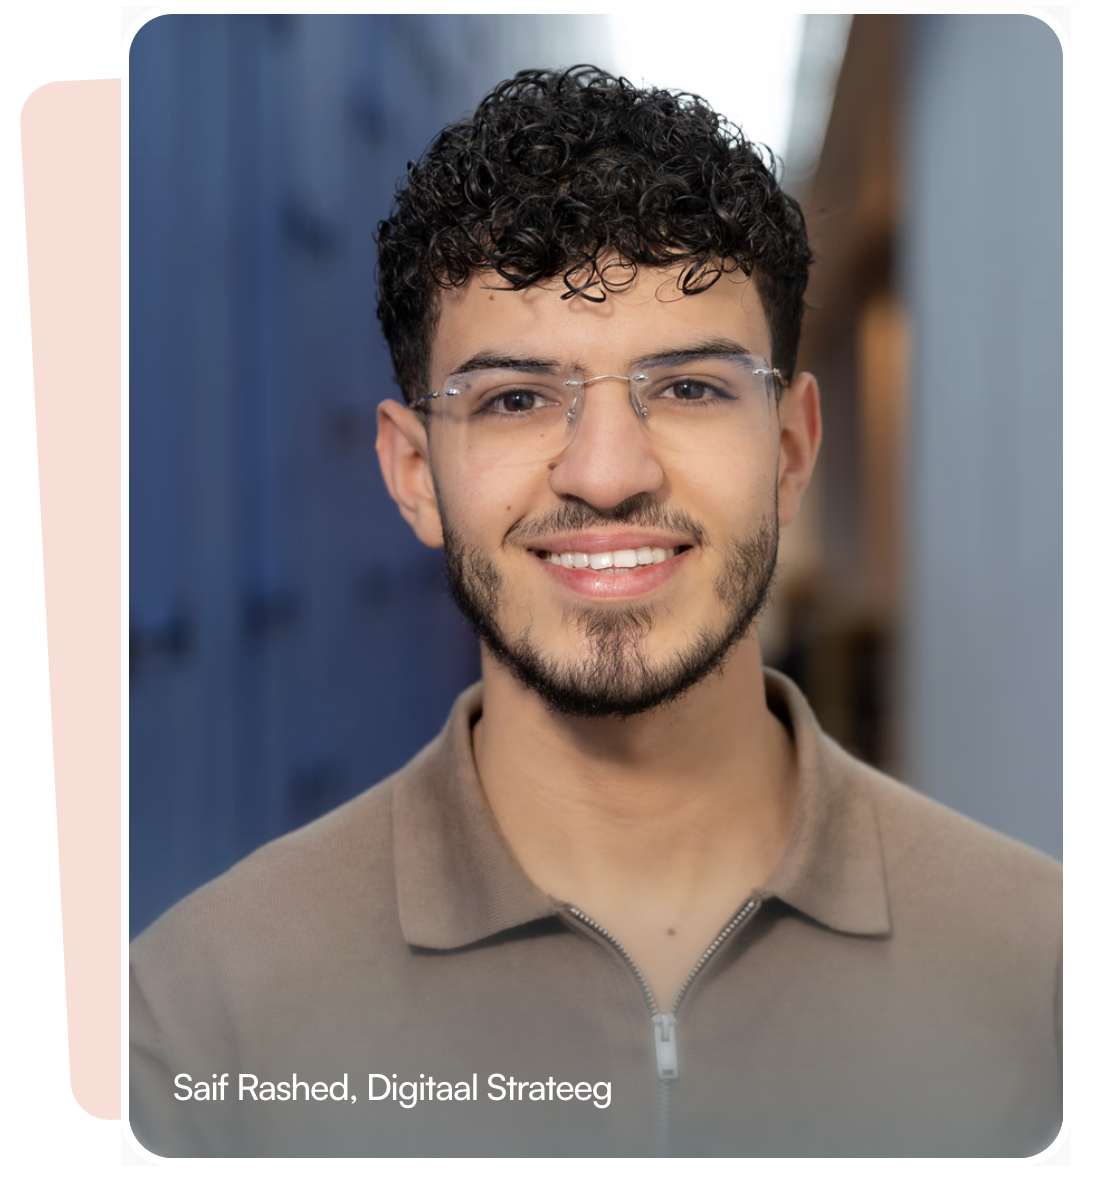
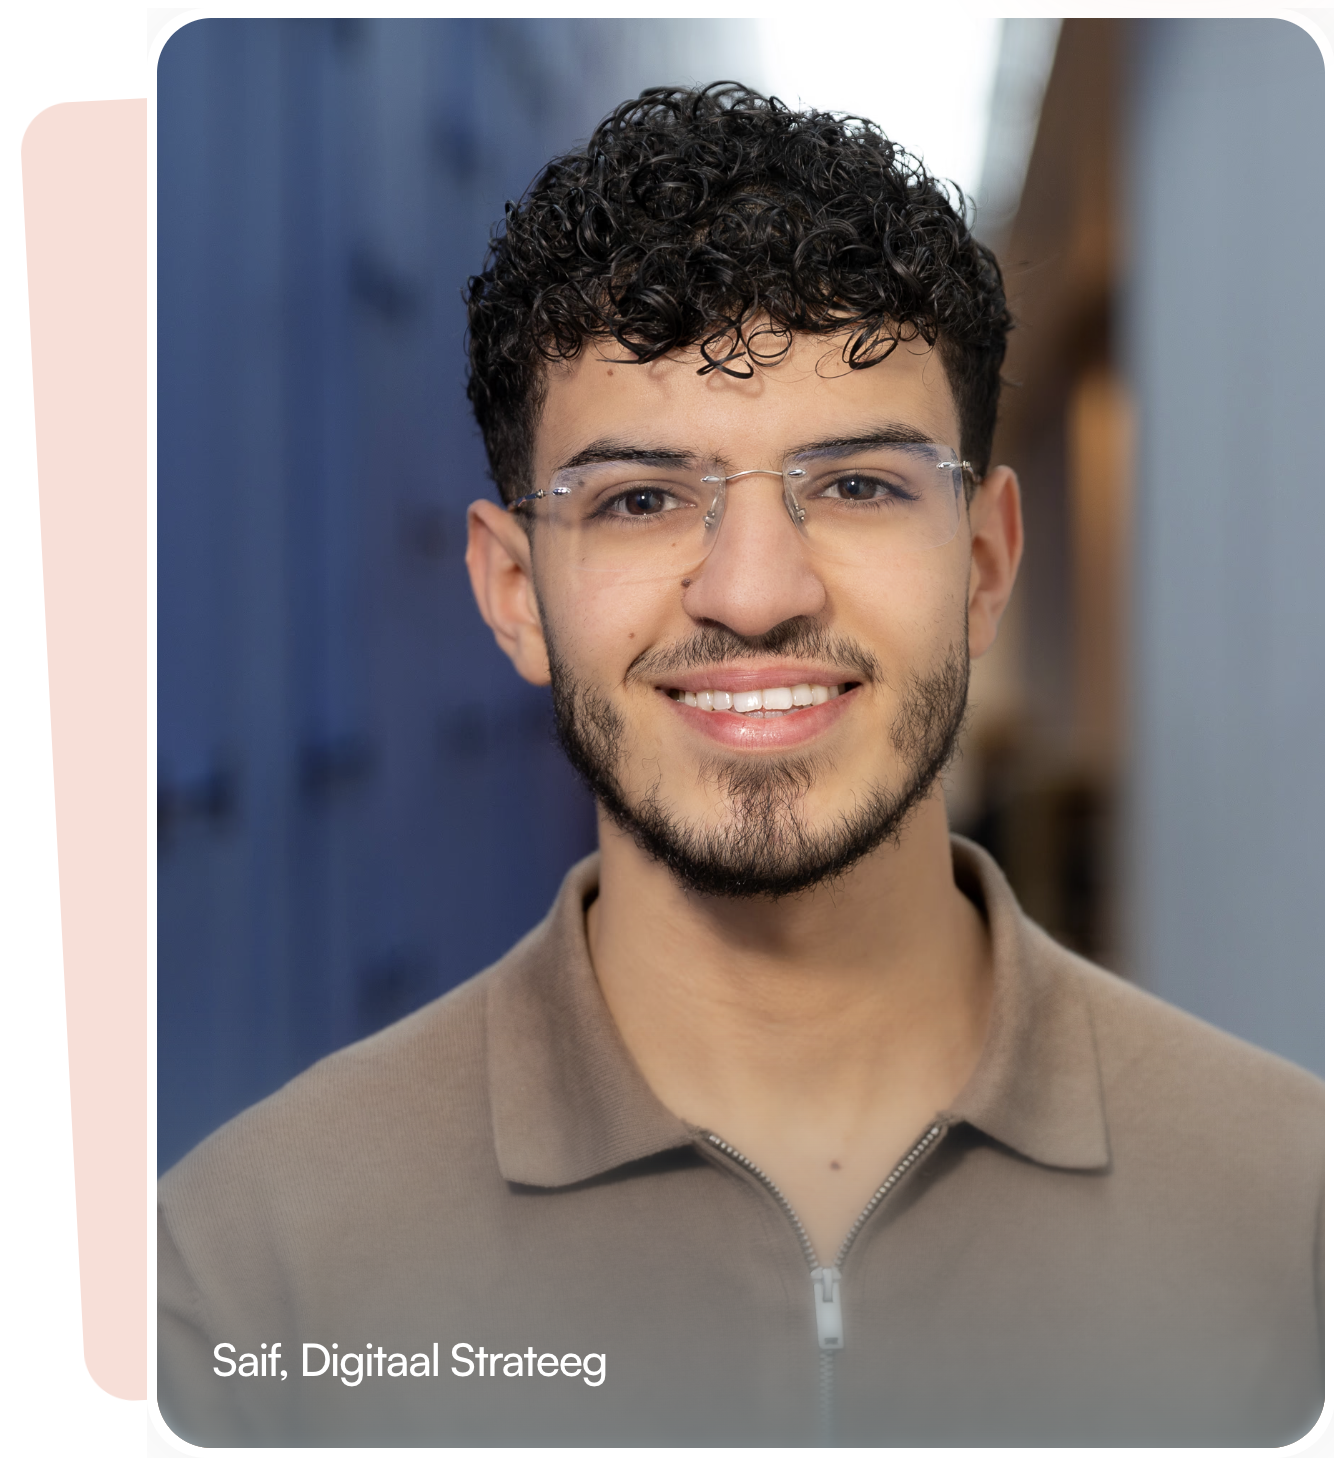
Enhance Google Tag Manager integration and update navigation links for improved user experience

diff --git a/index.html b/index.html
@@ -12,6 +12,17 @@
     <!-- FontAwesome for Icons -->
     <link rel="stylesheet" href="https://cdnjs.cloudflare.com/ajax/libs/font-awesome/6.4.0/css/all.min.css">
 
+    <!-- Google Tag Manager -->
+    <script>(function (w, d, s, l, i) {
+            w[l] = w[l] || []; w[l].push({
+                'gtm.start':
+                    new Date().getTime(), event: 'gtm.js'
+            }); var f = d.getElementsByTagName(s)[0],
+                j = d.createElement(s), dl = l != 'dataLayer' ? '&l=' + l : ''; j.async = true; j.src =
+                    'https://www.googletagmanager.com/gtm.js?id=' + i + dl; f.parentNode.insertBefore(j, f);
+        })(window, document, 'script', 'dataLayer', 'GTM-MC82HVPJ');</script>
+    <!-- End Google Tag Manager -->
+
     <script>
         tailwind.config = {
             theme: {
@@ -97,17 +108,21 @@
 </head>
 
 <body class="text-gray-800 antialiased bg-white">
+    <!-- Google Tag Manager (noscript) -->
+    <noscript><iframe src="https://www.googletagmanager.com/ns.html?id=GTM-MC82HVPJ" height="0" width="0"
+            style="display:none;visibility:hidden"></iframe></noscript>
+    <!-- End Google Tag Manager (noscript) -->
 
     <!-- Navigation -->
     <nav class="container mx-auto px-6 py-6 flex justify-between items-center">
         <!-- Logo Image -->
-        <a href="#">
+        <a href="#home">
             <img src="./logo.png" alt="Nul Gezeik Praktijk Logo" class="h-24">
         </a>
         <div class="hidden md:flex items-center space-x-8">
-            <a href="#" class="text-gray-600 hover:text-black font-medium">Partners</a>
-            <a href="#" class="text-gray-600 hover:text-black font-medium">Ook maker van</a>
-            <a href="#"
+            <a href="#partners" class="text-gray-600 hover:text-black font-medium">Partners</a>
+            <a href="#ook-maker-van" class="text-gray-600 hover:text-black font-medium">Ook maker van</a>
+            <a href="https://wa.link/g28jnd"
                 class="bg-brand hover:bg-brand-hover text-white px-6 py-2.5 rounded-full font-medium transition flex items-center">
                 Contact <i class="fa-solid fa-arrow-right ml-2 text-sm"></i>
             </a>
@@ -115,7 +130,7 @@
     </nav>
 
     <!-- Hero Section -->
-    <section class="container mx-auto px-6 py-12 md:py-4 grid grid-cols-1 md:grid-cols-2 gap-12 items-center">
+    <section id="home" class="container mx-auto px-6 py-12 md:py-4 grid grid-cols-1 md:grid-cols-2 gap-12 items-center">
         <div>
             <div class="flex items-center mb-6">
                 <div class="flex -space-x-2 mr-4">
@@ -146,17 +161,17 @@
                 Besteed uw aandacht aan de taken die ertoe doen.
             </p>
 
-            <a href="#"
+            <a href="https://wa.link/g28jnd"
                 class="inline-block bg-brand hover:bg-brand-hover text-white px-8 py-3 rounded-full font-medium transition mb-8">
                 Vrijblijvende kennismaking <i class="fa-solid fa-arrow-right ml-2"></i>
             </a>
 
             <div class="flex flex-wrap gap-4 text-sm font-medium text-gray-600 mb-10">
-                <a href="#" class="hover:text-black">Diensten <i
+                <a href="#services" class="hover:text-black">Diensten <i
                         class="fa-solid fa-arrow-up-right-from-square text-xs ml-1"></i></a>
-                <a href="#" class="hover:text-black">Partners <i
+                <a href="#partners" class="hover:text-black">Partners <i
                         class="fa-solid fa-arrow-up-right-from-square text-xs ml-1"></i></a>
-                <a href="#" class="hover:text-black">Ook maker van <i
+                <a href="#ook-maker-van" class="hover:text-black">Ook maker van <i
                         class="fa-solid fa-arrow-up-right-from-square text-xs ml-1"></i></a>
             </div>
 
@@ -178,7 +193,7 @@
             </div>
         </div>
 
-        <img src="./hero.png" alt="Saif Rashed" class="w-full h-full object-contain">
+        <img src="./hero.png" alt="Saif" class="w-full h-full object-contain">
 
     </section>
 
@@ -237,7 +252,7 @@
     </section>
 
     <!-- Services Section -->
-    <section class="container mx-auto px-6 py-20 text-center">
+    <section id="services" class="container mx-auto px-6 py-20 text-center">
         <span class="inline-block bg-gray-100 text-gray-600 text-xs px-3 py-1 rounded-full mb-4">Diensten</span>
         <h2 class="text-3xl md:text-4xl font-bold mb-10">Alles onder één dak</h2>
 
@@ -257,7 +272,7 @@
         </div>
 
         <div class="mt-10">
-            <a href="#"
+            <a href="#services"
                 class="inline-block bg-brand hover:bg-brand-hover text-white px-8 py-3 rounded-full font-medium transition">
                 Diensten <i class="fa-solid fa-arrow-right ml-2"></i>
             </a>
@@ -275,7 +290,7 @@
                     <span
                         class="inline-block bg-gray-100 text-gray-600 text-xs px-3 py-1 rounded-full mb-4">Werkwijze</span>
                     <h3 class="text-2xl font-bold mb-6">Drie-stappenplan</h3>
-                    <a href="#"
+                    <a href="https://wa.link/g28jnd"
                         class="inline-block bg-brand hover:bg-brand-hover text-white px-6 py-2 rounded-full font-medium text-sm transition">
                         Contact <i class="fa-solid fa-arrow-right ml-1"></i>
                     </a>
@@ -312,44 +327,47 @@
     </section>
 
     <!-- Dental Portfolio Section -->
-    <section class="container mx-auto px-6 py-20 text-center">
+    <section id="partners" class="container mx-auto px-6 py-20 text-center">
         <span class="inline-block bg-gray-100 text-gray-600 text-xs px-3 py-1 rounded-full mb-4">Partners</span>
         <h2 class="text-3xl md:text-4xl font-bold mb-12 max-w-xl mx-auto">Andere praktijken hebben deze stap al gezet
         </h2>
 
         <div class="grid grid-cols-1 md:grid-cols-2 gap-6 text-left">
-            <div class="portfolio-card">
+            <a href="https://breedveldtandartsen.nl" target="_blank" class="portfolio-card">
                 <img src="./praktijken/1.png" alt="Breedveld tandartsen">
                 <div class="portfolio-overlay">
                     <span class="text-xs font-semibold mb-1">Website</span>
                     <h3 class="text-2xl font-bold">Breedveld tandartsen</h3>
                 </div>
-            </div>
-            <div class="portfolio-card">
+            </a>
+
+            <a href="https://dentalfit.nl" target="_blank" class="portfolio-card">
                 <img src="./praktijken/2.png" alt="Dentalfit">
                 <div class="portfolio-overlay">
                     <span class="text-xs font-semibold mb-1">Website</span>
                     <h3 class="text-2xl font-bold">Dentalfit</h3>
                 </div>
-            </div>
-            <div class="portfolio-card">
+            </a>
+
+            <a href="https://kiesmetverstand.nl" target="_blank" class="portfolio-card">
                 <img src="./praktijken/3.png" alt="KiesMetVerstand">
                 <div class="portfolio-overlay">
                     <span class="text-xs font-semibold mb-1">Website</span>
                     <h3 class="text-2xl font-bold">KiesMetVerstand</h3>
                 </div>
-            </div>
-            <div class="portfolio-card">
+            </a>
+
+            <a href="https://mondzorghardinxveld.nl" target="_blank" class="portfolio-card">
                 <img src="./praktijken/4.png" alt="Mondzorg Hardinxveld">
                 <div class="portfolio-overlay">
                     <span class="text-xs font-semibold mb-1">Website - Marketing</span>
                     <h3 class="text-2xl font-bold">Mondzorg Hardinxveld</h3>
                 </div>
-            </div>
+            </a>
         </div>
 
         <div class="mt-12">
-            <a href="#"
+            <a href="#partners"
                 class="inline-block bg-brand hover:bg-brand-hover text-white px-8 py-3 rounded-full font-medium transition">
                 Bekijk meer Partners <i class="fa-solid fa-arrow-right ml-2"></i>
             </a>
@@ -380,7 +398,7 @@
                     </li>
                 </ul>
 
-                <a href="#"
+                <a href="https://wa.link/g28jnd"
                     class="inline-block bg-brand hover:bg-brand-hover text-white px-8 py-3 rounded-full font-medium transition">
                     Contact <i class="fa-solid fa-arrow-right ml-2"></i>
                 </a>
@@ -426,7 +444,7 @@
     </section>
 
     <!-- Portfolio Other Industries -->
-    <section class="container mx-auto px-6 py-20 text-center border-t border-gray-100">
+    <section id="ook-maker-van" class="container mx-auto px-6 py-20 text-center border-t border-gray-100">
         <span class="inline-block bg-gray-100 text-gray-600 text-xs px-3 py-1 rounded-full mb-4">Ook maker van</span>
         <h2 class="text-3xl md:text-4xl font-bold mb-4">Van alle markten thuis</h2>
         <p class="text-gray-500 mb-12">Een veelzijdige blik met kennis uit verschillende branches.</p>
@@ -480,7 +498,7 @@
         </div>
 
         <div class="mt-12">
-            <a href="#"
+            <a href="https://wa.link/g28jnd"
                 class="inline-block bg-brand hover:bg-brand-hover text-white px-8 py-3 rounded-full font-medium transition">
                 Contact <i class="fa-solid fa-arrow-right ml-2"></i>
             </a>
@@ -543,12 +561,13 @@
                     succesverhalen.
                 </p>
                 <div class="flex flex-col sm:flex-row justify-center items-center gap-4">
-                    <a href="#"
+                    <a href="https://wa.link/g28jnd"
                         class="bg-white text-black px-8 py-3 rounded-full font-medium transition hover:bg-gray-100 flex items-center">
-                        Partners <i class="fa-solid fa-arrow-right ml-2"></i>
+                        Stuur ons een bericht <i class="fa-solid fa-arrow-right ml-2"></i>
                     </a>
-                    <a href="#" class="text-white hover:text-gray-300 font-medium px-4 py-3 flex items-center">
-                        Onze diensten <i class="fa-solid fa-arrow-up-right-from-square text-xs ml-2"></i>
+                    <a href="https://linkedin.com/company/nulgezeikpraktijk"
+                        class="bg-[#0A66C2] text-white px-8 py-3 rounded-full font-medium transition hover:bg-[#004182] flex items-center">
+                        <i class="fa-brands fa-linkedin-in mr-2"></i> Volg ons op LinkedIn
                     </a>
                 </div>
             </div>
@@ -567,11 +586,11 @@
                 <div>
                     <h4 class="font-bold mb-6">Pages</h4>
                     <ul class="space-y-4 text-gray-500 text-sm">
-                        <li><a href="#" class="hover:text-black">Home</a></li>
-                        <li><a href="#" class="hover:text-black">Diensten</a></li>
-                        <li><a href="#" class="hover:text-black">Partners</a></li>
-                        <li><a href="#" class="hover:text-black">Ook maker van</a></li>
-                        <li><a href="#" class="hover:text-black">Contact</a></li>
+                        <li><a href="#home" class="hover:text-black">Home</a></li>
+                        <li><a href="#services" class="hover:text-black">Diensten</a></li>
+                        <li><a href="#partners" class="hover:text-black">Partners</a></li>
+                        <li><a href="#ook-maker-van" class="hover:text-black">Ook maker van</a></li>
+                        <li><a href="https://wa.link/g28jnd" class="hover:text-black">Contact</a></li>
                     </ul>
                 </div>
 
